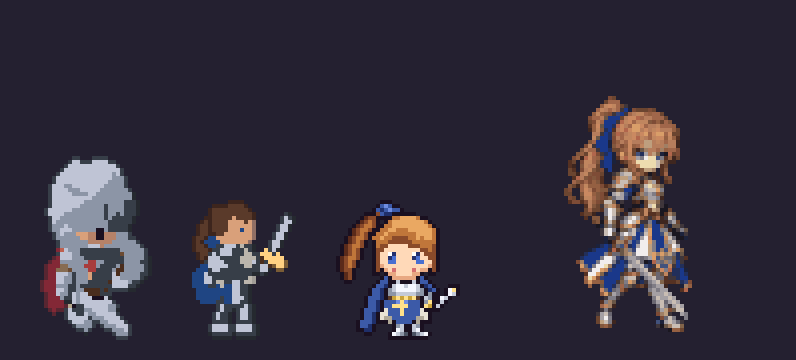
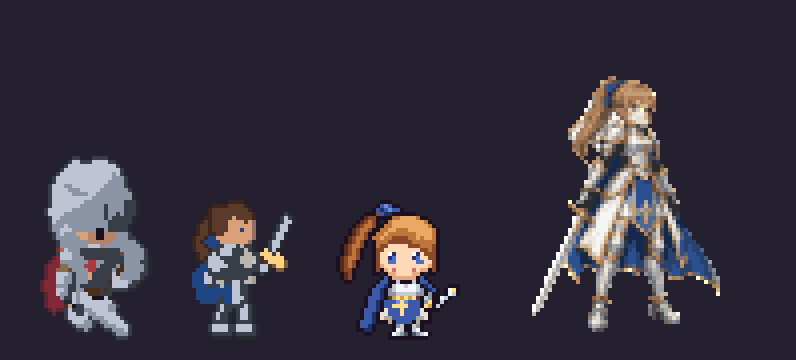
P8fix 1: 기준 A 교체: 6등신 세라, 사용자 결정 18:31 (P8fix 지시문 추가)
Claude-Session: https://claude.ai/code/session_01KhQFfXHa6aHuFFqbdNnXwT

Changed region(s): [[0.6633, 0.2139, 0.9045, 0.9167]]

diff --git a/docs/integrated/P8fix/INSTRUCTIONS.md b/docs/integrated/P8fix/INSTRUCTIONS.md
@@ -1,0 +1,34 @@
+# P8 보정 — 수락 기준 2건 정정 + 화면 방식 변경 반영 (사용자 승인 2026-10-22)
+
+이 zip을 docs/integrated/P8fix/에 풀고 아래대로 처리한 뒤 P8을 마감한다(/phase-done). 9번(세라 생산)은 여전히 하지 않는다.
+
+## 1. 기준 A 이미지 교체 (불통과 "차이 97%"의 원인)
+- 원인: 기획 세션 실수. 저장소에 들어간 calibration-v2/A_gpt-import-sera.png는 **예전 SD 세라(32×59)** 판이고, 6등신 세라로 바꾼 갱신판(47×64)이 전달되지 않았다. 결과(48×64)는 정상이다.
+- 처리: docs/integrated/P7close/calibration-v2/A_gpt-import-sera.png와 calibration-v2-sheet_4x.png를 이 zip의 calibration-v2/ 두 파일로 교체(커밋 메시지에 "기준 A 교체: 6등신 세라, 사용자 결정 18:31").
+- A 생성 설정(질문 ②의 답): 원본 samples/sera_ref_tall_gpt.png(흰 배경 일러스트) → 가장자리 연결 흰 영역 제거(min ≥ 225, max−min ≤ 14) + 2px 열림 → 알파 사전곱 BOX 축소(키 64) → 알파 ≥ 128 → median-cut 32색, 디더 없음 → 셀 64×80, 발 (32,78) 가운데 정렬.
+- 재현성 기준 변경: 픽셀 일치 대신 **실루엣 IoU ≥ 0.90**(발 기준 정렬 후) + **불투명 픽셀 평균 OKLab ΔE ≤ 0.05**. 이유: 폭 반올림(47 vs 48) 1px 차이로 픽셀 비교는 의미가 없다.
+- 교체 후 art-judge v2 보정 확인을 1회 다시 실행(새 A로 D<C<B<A 유효한지). 무효면 판정자 순서·이유를 그대로 보고(재시도 금지).
+
+## 2. 잘림 기대값 (질문 ①의 답)
+- 기대값 3은 기획 세션이 **2px 팽창한 마스크**로 잰 값이라 틀렸다. 팽창 없이 다시 재면 1개(19번, 오른쪽 끝 x=639).
+- 정의를 고정한다: "잘림 = 알파 ≥ 128 픽셀이 이미지 바깥 1px 행·열에 닿은 스프라이트". 이 정의로 나온 값과 스프라이트 번호를 기록하고, 테스트는 그 값을 골든으로 고정. 2가 나온다면 두 번호와 닿은 변을 보고에 적는다(근거만, 재작업 불필요).
+
+## 3. 화면 방식 변경 반영 (사용자 결정 19:07 — P8 지시 이후 바뀜)
+- 640×360 기준 해상도 전환은 **취소**. 간이 방식: 게임 뷰포트 1280×720 그대로, 캐릭터 그림만 정수 2배·짝수 픽셀 스냅.
+- data/projects/seonggeom/seonggeom.bible.json: `internalResolution` 삭제 → `"display": {"viewport": [1280, 720], "spriteScale": 2, "snap": 2}`, `internalResolutionSource` 문구도 교체. 바이블 변경이지만 사용자 승인 사항.
+- 미리보기(9번 산출물 정의)도 "1280×720 화면에 2배로 놓은 장면"으로 수정.
+- 게임 쪽 표시 코드는 seonggeom 저장소 G1 작업에서 한다(이 저장소에서는 Godot 작업 금지 유지).
+
+## 4. 배경 기본값
+- GPT 원본 기본 배경은 **순수 초록 #00FF00**(초록 캐릭터는 마젠타 #FF00FF), 흰 배경은 보조. P8 1-0 규칙대로 import가 크로마 거리로 제거하는지 합성 테스트 1개 추가.
+
+## 5. 결정 회신 (질문 ③·④)
+- ④ 바이블 `colorBudget` 32: **승인**(사용자 Gate C에서 재조정). art-judge의 "중간톤 단계 축소" 제안은 backlog 유지.
+- ③ `.forge/targets.local.json`: 사용자가 직접 작성하거나, 사용자가 채팅으로 정확한 내용을 주면 그대로 작성(사람 승인 지점). 형식: `{ "targets": { "seonggeom": "<seonggeom 저장소 절대 경로>/outputs/geometry-prototype/art/candidates" } }`. 경로를 모르면 이 환경에서 seonggeom 클론 위치를 확인해 **경로만** 사용자에게 알려 주고 작성은 기다린다.
+
+## 수락
+- pnpm test 통과 + 결과 줄.
+- 새 A로 재현성(IoU ≥ 0.90, ΔE ≤ 0.05) 통과.
+- art-judge 보정 확인 유효 1회.
+- 바이블 display 반영, 초록 배경 합성 테스트 통과.
+- /phase-done → progress 현재 단계 "P8-9 대기(세라 생산 — G1·P9 진행)".
